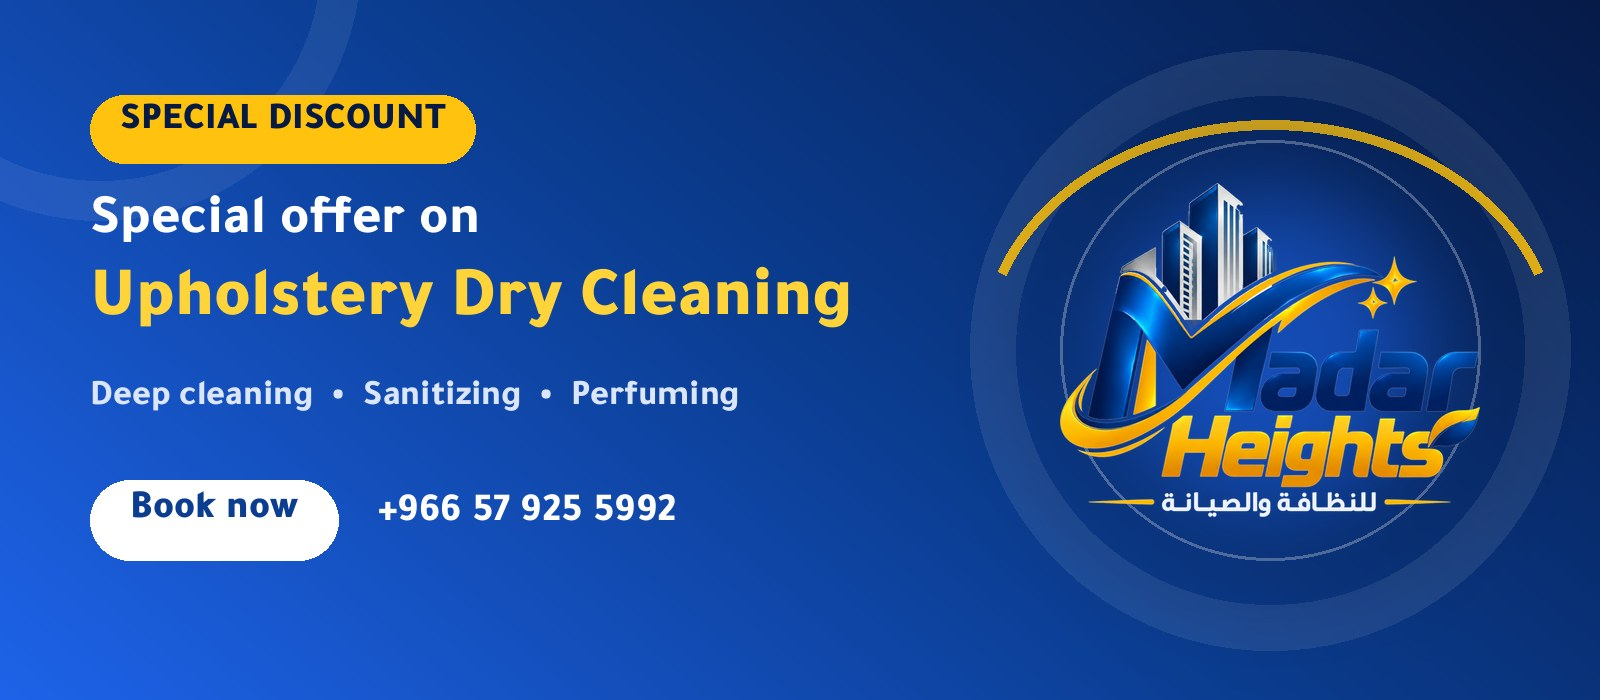
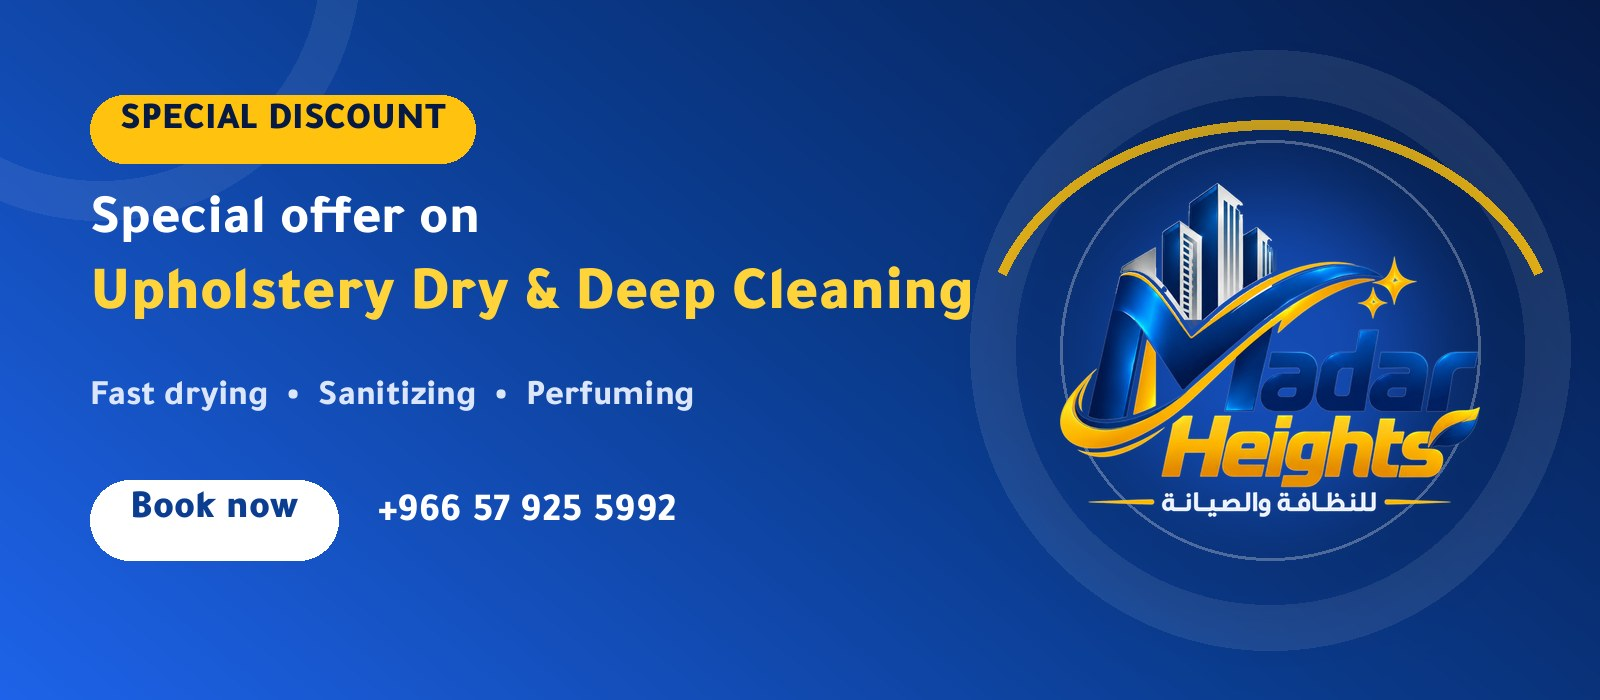
Merge dry and deep upholstery cleaning into one service
Rename it to the client's wording and update the hero, offer banners
and tests to match.

Claude-Session: https://claude.ai/code/session_01TijVjzfcyTqd6NZpGBJtNV

Changed region(s): [[0.0625, 0.36, 0.625, 0.48], [0.0625, 0.54, 0.4688, 0.6]]

diff --git a/config/site.php b/config/site.php
@@ -76,20 +76,12 @@ return [
     // الترتيب هنا هو ترتيب ظهور الخدمات في الموقع
     'services' => [
         'upholstery-cleaning' => [
-            'title' => 'غسيل جاف للمفروشات',
+            'title' => 'غسيل جاف وعميق للمفروشات',
             'icon' => 'sofa',
             'featured' => true,
-            'short' => 'خدمتنا الأساسية: غسيل جاف للمفروشات بأقل كمية من الماء، يجف بسرعة ويحافظ على لون القماش وملمسه، مع التعقيم والتعطير.',
-            'body' => 'الغسيل الجاف هو تنظيف المفروشات بمواد وماكينات متخصصة باستخدام أقل كمية من الماء، فيجف القماش بسرعة ويحافظ على لونه وملمسه دون انكماش أو تلف. مناسب للأقمشة الحساسة والمفروشات التي تحتاج للاستخدام في نفس اليوم. بعد الغسيل نعقم المفروشات ضد البكتيريا والعث ونعطرها بأجود العطور. هذه هي خدمتنا الأساسية التي نتميز بها.',
-            'features' => ['غسيل جاف يحافظ على القماش ولونه', 'مناسب للأقمشة الحساسة', 'تجفيف سريع والاستخدام في نفس اليوم', 'إزالة البقع والأتربة', 'تعقيم ضد البكتيريا والعث', 'تعطير بعد الغسيل'],
-        ],
-        'deep-upholstery-cleaning' => [
-            'title' => 'غسيل عميق للمفروشات',
-            'icon' => 'sparkle',
-            'featured' => true,
-            'short' => 'غسيل عميق يصل إلى عمق الألياف لإزالة البقع الصعبة والأتربة المتراكمة والروائح، مع التعقيم والتعطير.',
-            'body' => 'الغسيل العميق مخصص للمفروشات التي تراكمت فيها الأتربة والبقع الصعبة والروائح مع الوقت. نستخدم ماكينات الحقن والشفط والبخار التي تصل إلى عمق الألياف، فنستخرج الأوساخ من الداخل وليس من السطح فقط، ثم نعقم المفروشات ضد البكتيريا والعث ونعطرها لتعود كأنها جديدة.',
-            'features' => ['يصل لعمق الألياف', 'إزالة البقع الصعبة والقديمة', 'استخراج الأتربة المتراكمة', 'إزالة الروائح', 'تعقيم ضد البكتيريا والعث', 'تعطير بعد الغسيل'],
+            'short' => 'خدمتنا الأساسية: غسيل جاف للمفروشات بأقل كمية من الماء، وغسيل عميق يصل لعمق الألياف لإزالة البقع الصعبة والأتربة والروائح، مع التعقيم والتعطير.',
+            'body' => 'الغسيل الجاف هو تنظيف المفروشات بمواد وماكينات متخصصة باستخدام أقل كمية من الماء، فيجف القماش بسرعة ويحافظ على لونه وملمسه دون انكماش أو تلف، وهو مناسب للأقمشة الحساسة. أما الغسيل العميق فمخصص للمفروشات التي تراكمت فيها الأتربة والبقع الصعبة والروائح، ونستخدم فيه ماكينات الحقن والشفط والبخار التي تصل إلى عمق الألياف فتستخرج الأوساخ من الداخل وليس من السطح فقط. نحدد الطريقة المناسبة لكل قطعة، ثم نعقم المفروشات ضد البكتيريا والعث ونعطرها لتعود كأنها جديدة. هذه هي خدمتنا الأساسية التي نتميز بها.',
+            'features' => ['غسيل جاف يحافظ على القماش ولونه', 'غسيل عميق يصل لعمق الألياف', 'إزالة البقع الصعبة والقديمة والروائح', 'تجفيف سريع', 'تعقيم ضد البكتيريا والعث', 'تعطير بعد الغسيل'],
         ],
         'carpet-curtain-cleaning' => [
             'title' => 'تنظيف السجاد والموكيت والستائر',

diff --git a/config/site_en.php b/config/site_en.php
@@ -52,16 +52,10 @@ return [
 
     'services' => [
         'upholstery-cleaning' => [
-            'title' => 'Upholstery Dry Cleaning',
-            'short' => 'Our core service: upholstery dry cleaning with very little water — it dries fast and keeps the fabric\'s colour and feel, with sanitizing and perfuming.',
-            'body' => 'Dry cleaning means cleaning upholstery with specialised products and machines using very little water, so the fabric dries fast and keeps its colour and feel without shrinking or damage. It suits delicate fabrics and furniture you need to use the same day. After cleaning we sanitize the upholstery against bacteria and dust mites and finish with premium fragrance. This is our core service and what we are known for.',
-            'features' => ['Dry cleaning that protects fabric and colour', 'Suitable for delicate fabrics', 'Fast drying, usable the same day', 'Removes stains and dust', 'Sanitizing against bacteria and dust mites', 'Perfuming after cleaning'],
-        ],
-        'deep-upholstery-cleaning' => [
-            'title' => 'Deep Upholstery Cleaning',
-            'short' => 'Deep washing that reaches deep into the fibres to remove tough stains, built-up dust and odours, with sanitizing and perfuming.',
-            'body' => 'Deep cleaning is for upholstery that has collected dust, tough stains and odours over time. We use injection, extraction and steam machines that reach deep into the fibres, pulling dirt out from inside rather than just the surface, then sanitize the upholstery against bacteria and dust mites and perfume it so it looks like new.',
-            'features' => ['Reaches deep into the fibres', 'Removes tough and old stains', 'Extracts built-up dust', 'Odour removal', 'Sanitizing against bacteria and dust mites', 'Perfuming after washing'],
+            'title' => 'Upholstery Dry & Deep Cleaning',
+            'short' => 'Our core service: upholstery dry cleaning with very little water, plus deep washing that reaches deep into the fibres to remove tough stains, dust and odours — with sanitizing and perfuming.',
+            'body' => 'Dry cleaning means cleaning upholstery with specialised products and machines using very little water, so the fabric dries fast and keeps its colour and feel without shrinking or damage — ideal for delicate fabrics. Deep washing is for upholstery that has collected dust, tough stains and odours: we use injection, extraction and steam machines that reach deep into the fibres and pull dirt out from inside, not just the surface. We choose the right method for each piece, then sanitize against bacteria and dust mites and perfume it so it looks like new. This is our core service and what we are known for.',
+            'features' => ['Dry cleaning that protects fabric and colour', 'Deep washing that reaches deep into the fibres', 'Removes tough, old stains and odours', 'Fast drying', 'Sanitizing against bacteria and dust mites', 'Perfuming after washing'],
         ],
         'carpet-curtain-cleaning' => [
             'title' => 'Carpet, Rug & Curtain Cleaning',

diff --git a/resources/views/pages/home.blade.php b/resources/views/pages/home.blade.php
@@ -50,7 +50,7 @@
             <h1 class="hero__title" data-reveal data-delay="100">
                 {{ config('site.name') }}
                 <span class="hero__rotator">
-                    @php($words = is_en() ? ['Upholstery dry cleaning', 'Deep upholstery cleaning', 'Sofa & majlis cleaning', 'Carpet & curtain cleaning', 'AC cleaning', 'Apartment & villa cleaning', 'Pest control'] : ['الغسيل الجاف للمفروشات', 'الغسيل العميق للمفروشات', 'غسيل الكنب والمجالس', 'تنظيف السجاد والستائر', 'غسيل المكيفات', 'تنظيف الشقق والفلل', 'مكافحة الحشرات'])
+                    @php($words = is_en() ? ['Upholstery dry & deep cleaning', 'Sofa & majlis cleaning', 'Carpet & curtain cleaning', 'AC cleaning', 'Apartment & villa cleaning', 'Pest control'] : ['غسيل جاف وعميق للمفروشات', 'غسيل الكنب والمجالس', 'تنظيف السجاد والستائر', 'غسيل المكيفات', 'تنظيف الشقق والفلل', 'مكافحة الحشرات'])
                     <span class="typed grad" data-words='@json($words, JSON_UNESCAPED_UNICODE)'>{{ $words[0] }}</span><span class="caret"></span>
                 </span>
             </h1>
@@ -83,7 +83,7 @@
             </div>
             <div class="float-card float-card--1">
                 <span class="float-card__ico"><x-icon name="sofa" :size="22"/></span>
-                <span><strong>{{ __('غسيل جاف للمفروشات') }}</strong><small>{{ __('غسيل عميق وتعقيم وتعطير') }}</small></span>
+                <span><strong>{{ __('غسيل جاف وعميق للمفروشات') }}</strong><small>{{ __('غسيل عميق وتعقيم وتعطير') }}</small></span>
             </div>
             <div class="float-card float-card--2">
                 <span class="float-card__ico"><x-icon name="shield" :size="22"/></span>

diff --git a/tests/Feature/SiteTest.php b/tests/Feature/SiteTest.php
@@ -71,7 +71,7 @@ class SiteTest extends TestCase
             $this->get($url)->assertOk()->assertSee('lang="en"', false)->assertSee('dir="ltr"', false);
         }
 
-        $this->get('/en/services/upholstery-cleaning')->assertOk()->assertSee('Upholstery Dry Cleaning');
+        $this->get('/en/services/upholstery-cleaning')->assertOk()->assertSee('Upholstery Dry &amp; Deep Cleaning', false);
         $this->get('/en/areas/khobar')->assertOk()->assertSee('Cleaning company in Khobar');
         $this->get('/en/blog/why-ac-cleaning')->assertOk()->assertSee('Why should you clean your AC?');
     }
